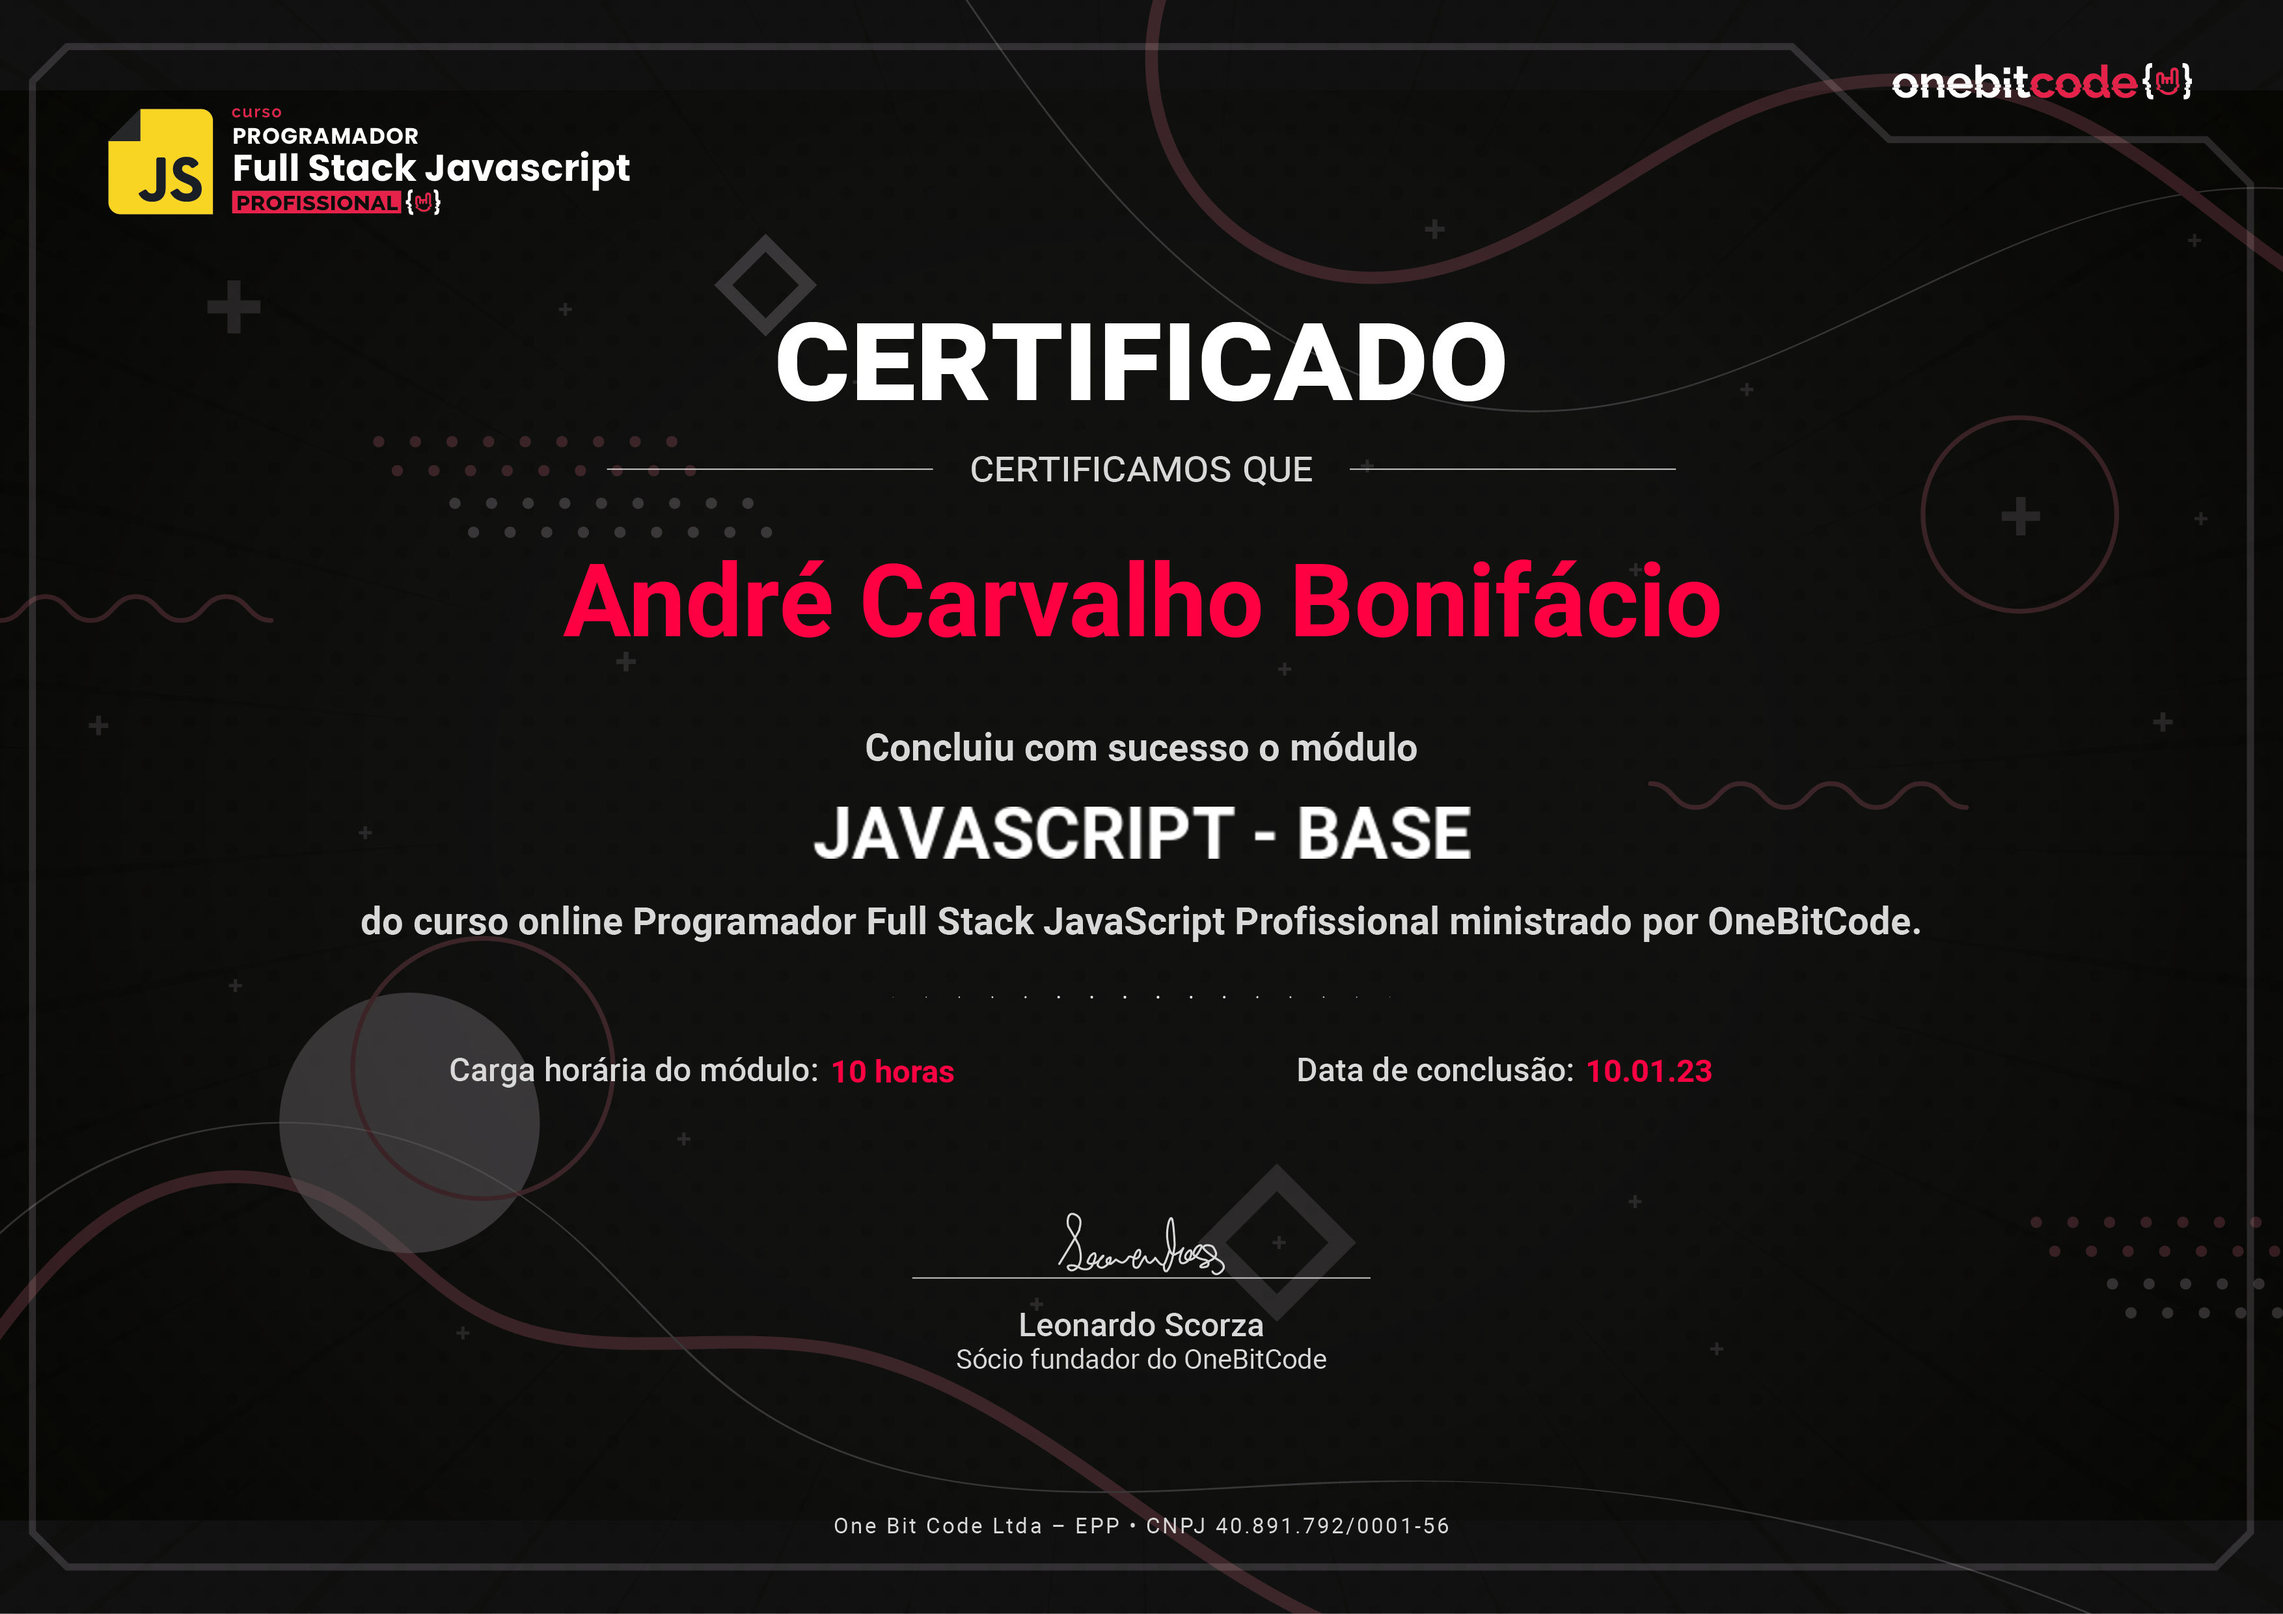
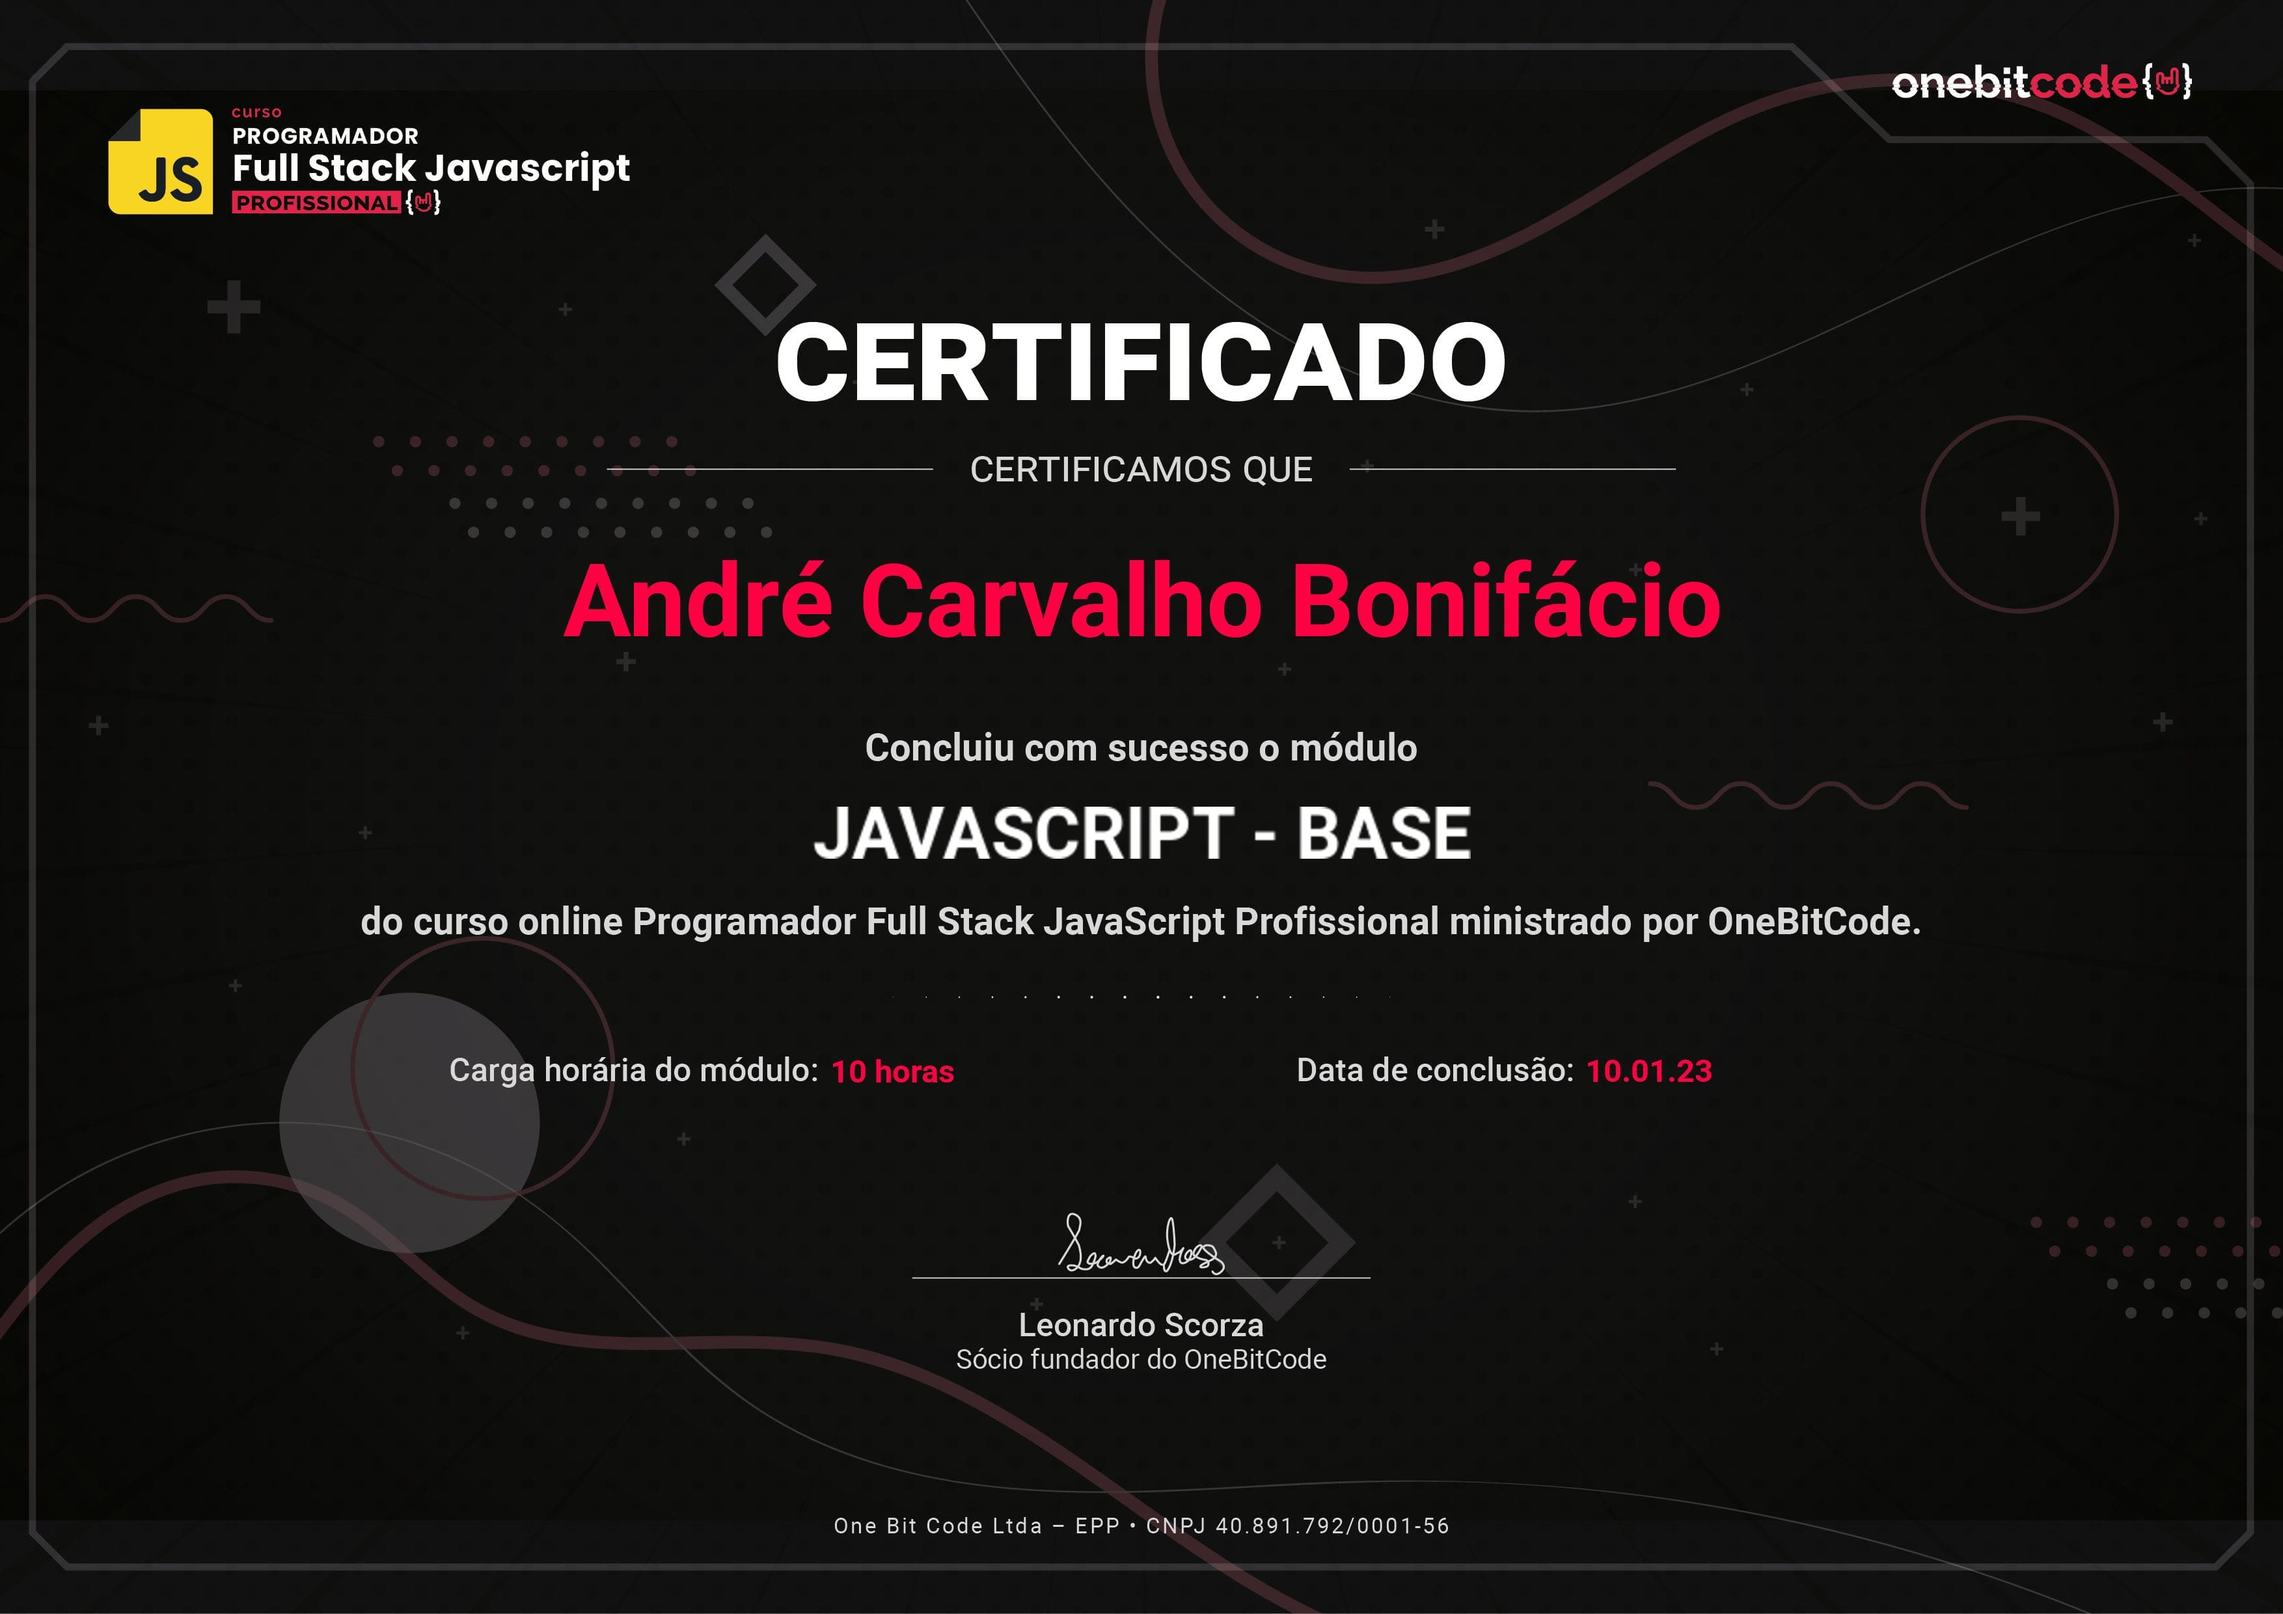
Ajustada a qualidade de algumas imagens, permitindo um loading mais rápido

diff --git a/index.html b/index.html
@@ -170,10 +170,10 @@
                 <img src="./imagens/certificado-5.jpg">
             </div>
             <div class="container-certificados">
-                <img src="./imagens/certificado-4.jpg">
+                <img src="./imagens/certificado-3.jpg">
             </div>
             <div class="container-certificados">
-                <img src="./imagens/certificado-3.jpg">
+                <img src="./imagens/certificado-4.jpg">
             </div>
             <div class="container-certificados">
                 <img src="./imagens/certificado-2.jpg">
@@ -208,8 +208,8 @@
         </div>
         <div class="portfolio-item" style="background-image: url('./imagens/portfolio-react-1.png')">
             <div class="container-centralizado col" style="background-color: #00d0ff; color: aliceblue;">
-                <h4>Vison Motel</h4>
-                <p>Protótipo de site que fiz para um processo seletivo da empresa "Guia de Moteis"</p>
+                <h4>Localizador de CEP</h4>
+                <p>Projeto simples que fiz especialmente para treinar React</p>
                 <a target="_BLANK" href="https://andre-dev-git.github.io/localizador-de-cep-ReactJs/"
                     class="acessar-website" style="background-color: aliceblue; color: #00d0ff;">
                     Acessar

diff --git a/includes/main.js b/includes/main.js
@@ -119,7 +119,7 @@ function verificarMobile() {
 }
 function onLoadFunctions() {
     verificarMobile();
-    setTimeout(startarAnimacaoHome, 1000 * 3);
+    setTimeout(startarAnimacaoHome, 1000 * 2);
 }
 function startarAnimacaoHome() {
     const loading = document.getElementById("container-loading")
